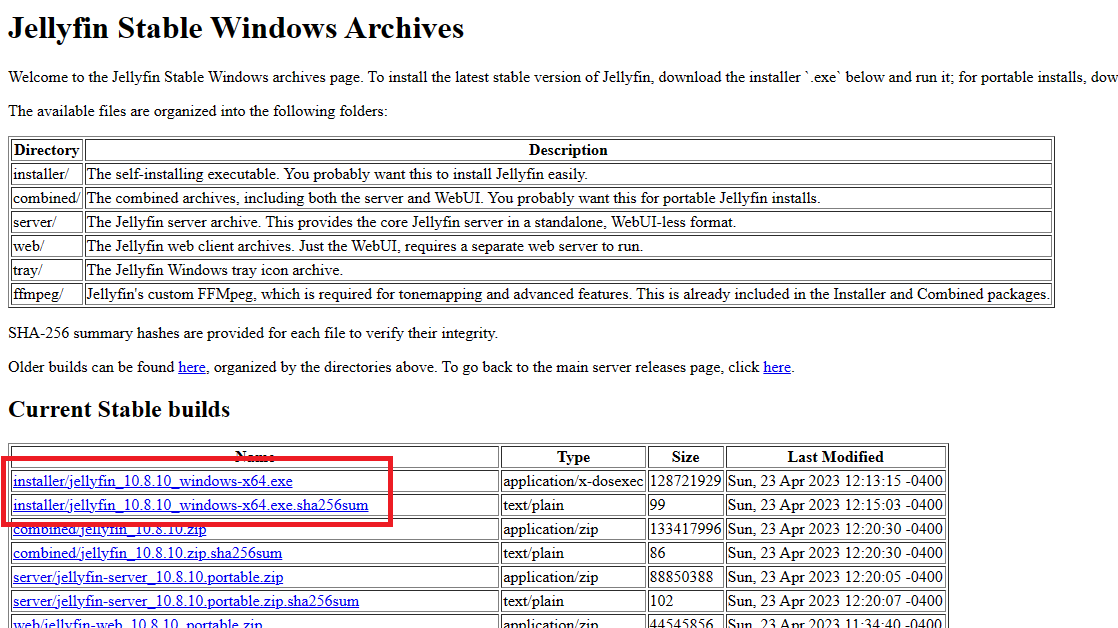
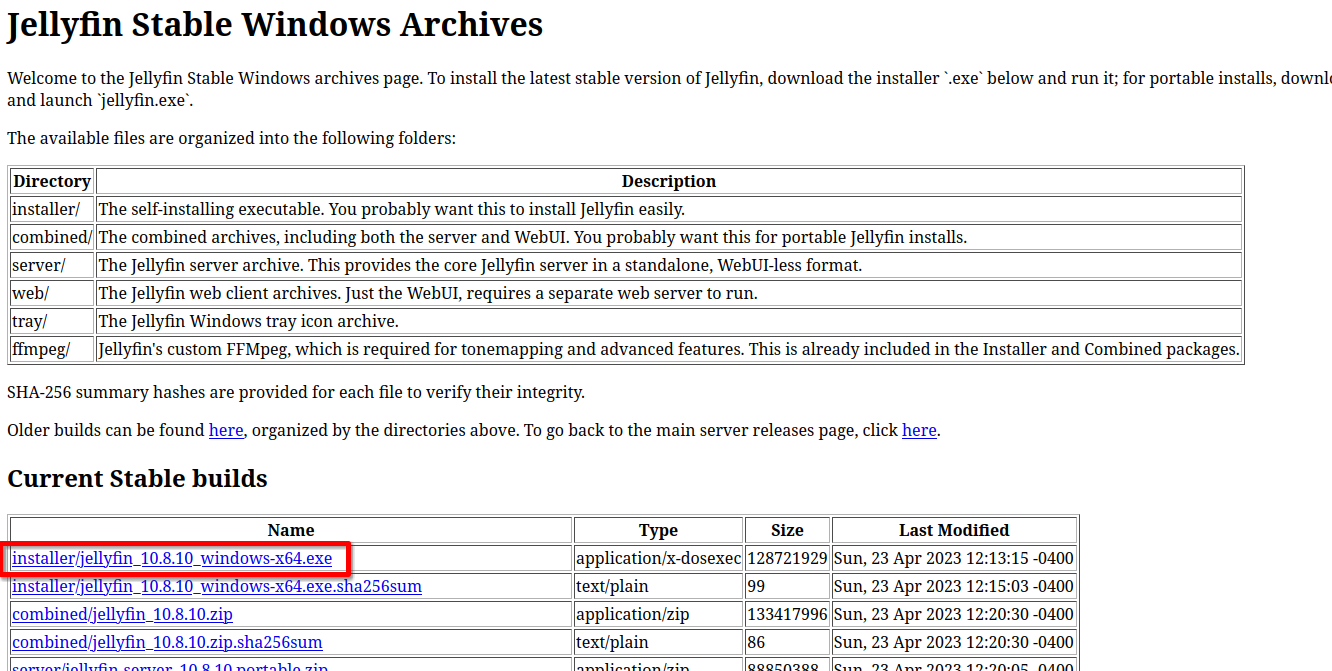
Remove verify checksum
Remove Verify Checksum steps per recommendation of nielsvanvelzen

diff --git a/docs/general/quick-start/windows.md b/docs/general/quick-start/windows.md
@@ -38,36 +38,24 @@ title: Windows
 
 ### Install
 
-1. Download installer exe and sha256sum from [the official repo](https://repo.jellyfin.org/releases/server/windows/stable/). The files to download are `installer/jellyfin_x.y.z_windows-x64.exe` and `installer/jellyfin_x.y.z_windows-x64.exe`.
+1. Download installer exe and sha256sum from [the official repo](https://repo.jellyfin.org/releases/server/windows/stable/). The files to download are `installer/jellyfin_x.y.z_windows-x64.exe`.
 
     ![Windows Download Page](/images/docs/quick-start/windows/jellyfin-0.png)
 
-2. Once the download finishes, open the sha256sum in a text editor
-3. Open a Terminal in your Downloads folder and enter this command: `certutil -hashfile .\jellyfin_x.y.z_windows-x64.exe SHA256`, replace `jellyfin_x.y.z_windows-x64.exe` with the .exe file you just downloaded.
-4. Wait for the command to finish and see if it matches the value in the sha256sum file. If the values don't match, at least one of the files is corrupted and both files should be redownloaded.
-
-    ![Checksum Match](/images/docs/quick-start/windows/jellyfin-1.png)
-
-    Values match, files are good
-
-    ![Checksum Doesn't Match](/images/docs/quick-start/windows/jellyfin-2.png)
-
-    Values don't match, possibly corrupted file(s)
-
-5. Run and follow the installer
-6. Look for a Jellyfin icon in your system tray. If it isn't present, search for `Jellyfin Tray App` and run it. No windows will popup after running this application.
+2. Run and follow the installer
+3. Look for a Jellyfin icon in your system tray. If it isn't present, search for `Jellyfin Tray App` and run it. No windows will popup after running this application.
 
     ![Jellyfin Tray App Search](/images/docs/quick-start/windows/jellyfin-3.png)
 
     Jellyfin Tray App
 
-7. Allow Firewall Access when Prompted
+4. Allow Firewall Access when Prompted
 
     ![Windows Firewall Prompt](/images/docs/quick-start/windows/jellyfin-4.png)
 
     Windows Firewall Prompt
 
-8. Open a browser and go to [http://localhost:8096](http://localhost:8096) to finish the setup process. Leave the `Enable Automatic Port Mapping` option unchecked.
+5. Open a browser and go to [http://localhost:8096](http://localhost:8096) to finish the setup process. Leave the `Enable Automatic Port Mapping` option unchecked.
 
 ### Hardware Accel
 
